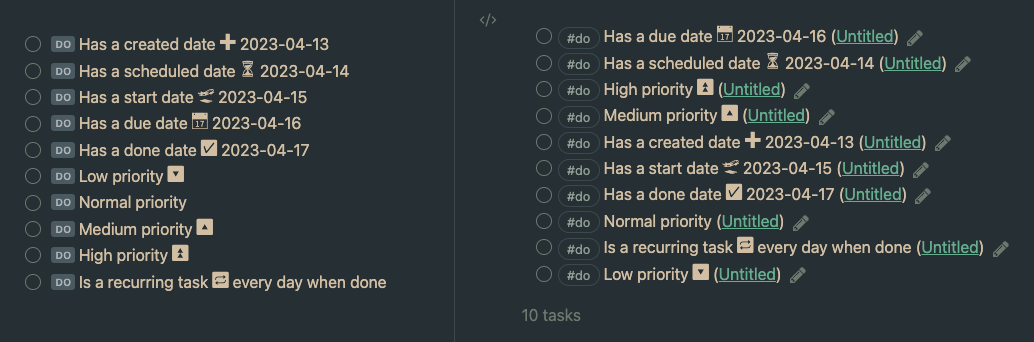
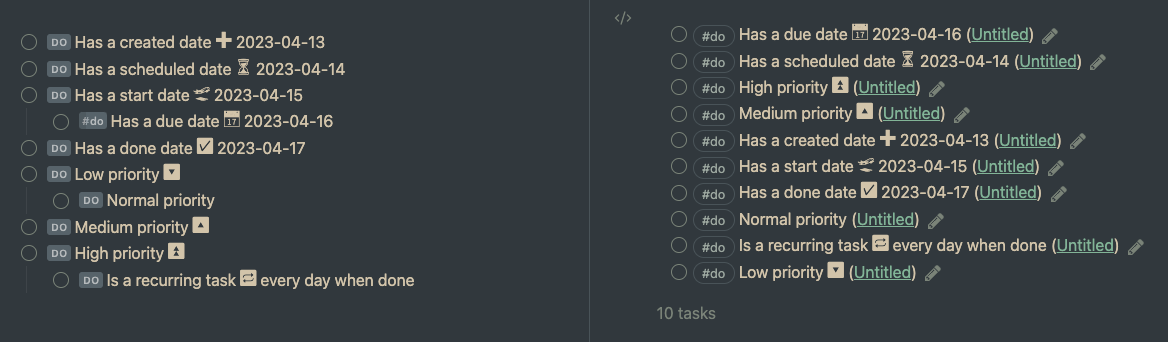
Update README: Notoemoji screenshot, update CSS snippet

diff --git a/README.md b/README.md
@@ -66,7 +66,7 @@ License...
 }
 
 span.tasks-list-text,
-.cm-line:has(.task-list-label) .cm-list-1 {
+.cm-line:has(.task-list-label) [class^=cm-list-] {
     font-family: 'TasksMonoEmojis', var(--font-text);
 }
 ```
